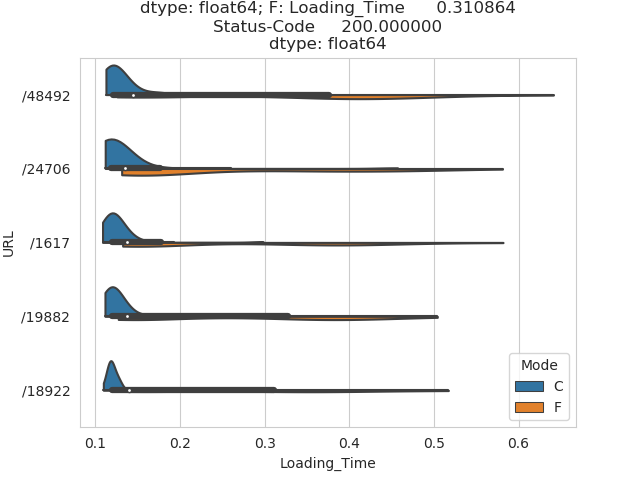
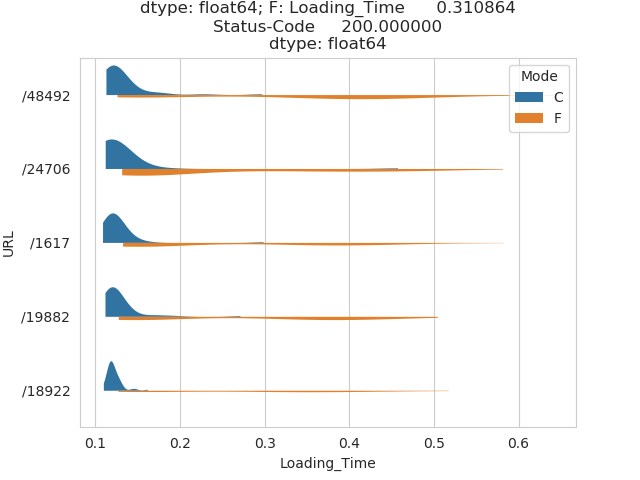
klöaskjfdlökjasfdöllkjfd

diff --git a/Auswertung2.py b/Auswertung2.py
@@ -25,15 +25,15 @@ if speicherart == 0:
     sns.violinplot(x="Loading_Time", y="URL", hue="Mode", data=df3, ax=ax[2])
     plt.savefig("superplot.png")
 elif speicherart == 1:
-    sns.violinplot(x="Loading_Time", y="URL", hue="Mode", data=df1, cut=0, split=True)
+    sns.violinplot(x="Loading_Time", y="URL", hue="Mode", data=df1, cut=0, split=True, inner=None, linewidth=0)
     plt.title(f"A: {A_AVG}; D: {D_AVG}")
     plt.savefig("A&D.png")
     plt.close()
-    sns.violinplot(x="Loading_Time", y="URL", hue="Mode", data=df2, cut=0, split=True)
+    sns.violinplot(x="Loading_Time", y="URL", hue="Mode", data=df2, cut=0, split=True, inner=None, linewidth=0)
     plt.title(f"B: {B_AVG}; E: {E_AVG}")
     plt.savefig("B&E.png")
     plt.close()
-    sns.violinplot(x="Loading_Time", y="URL", hue="Mode", data=df3, cut=0, split=True)
+    sns.violinplot(x="Loading_Time", y="URL", hue="Mode", data=df3, cut=0, split=True,inner=None,  linewidth=0)
     plt.title(f"C: {C_AVG}; F: {F_AVG}")
     plt.savefig("C&F.png")
 elif speicherart == 2:
